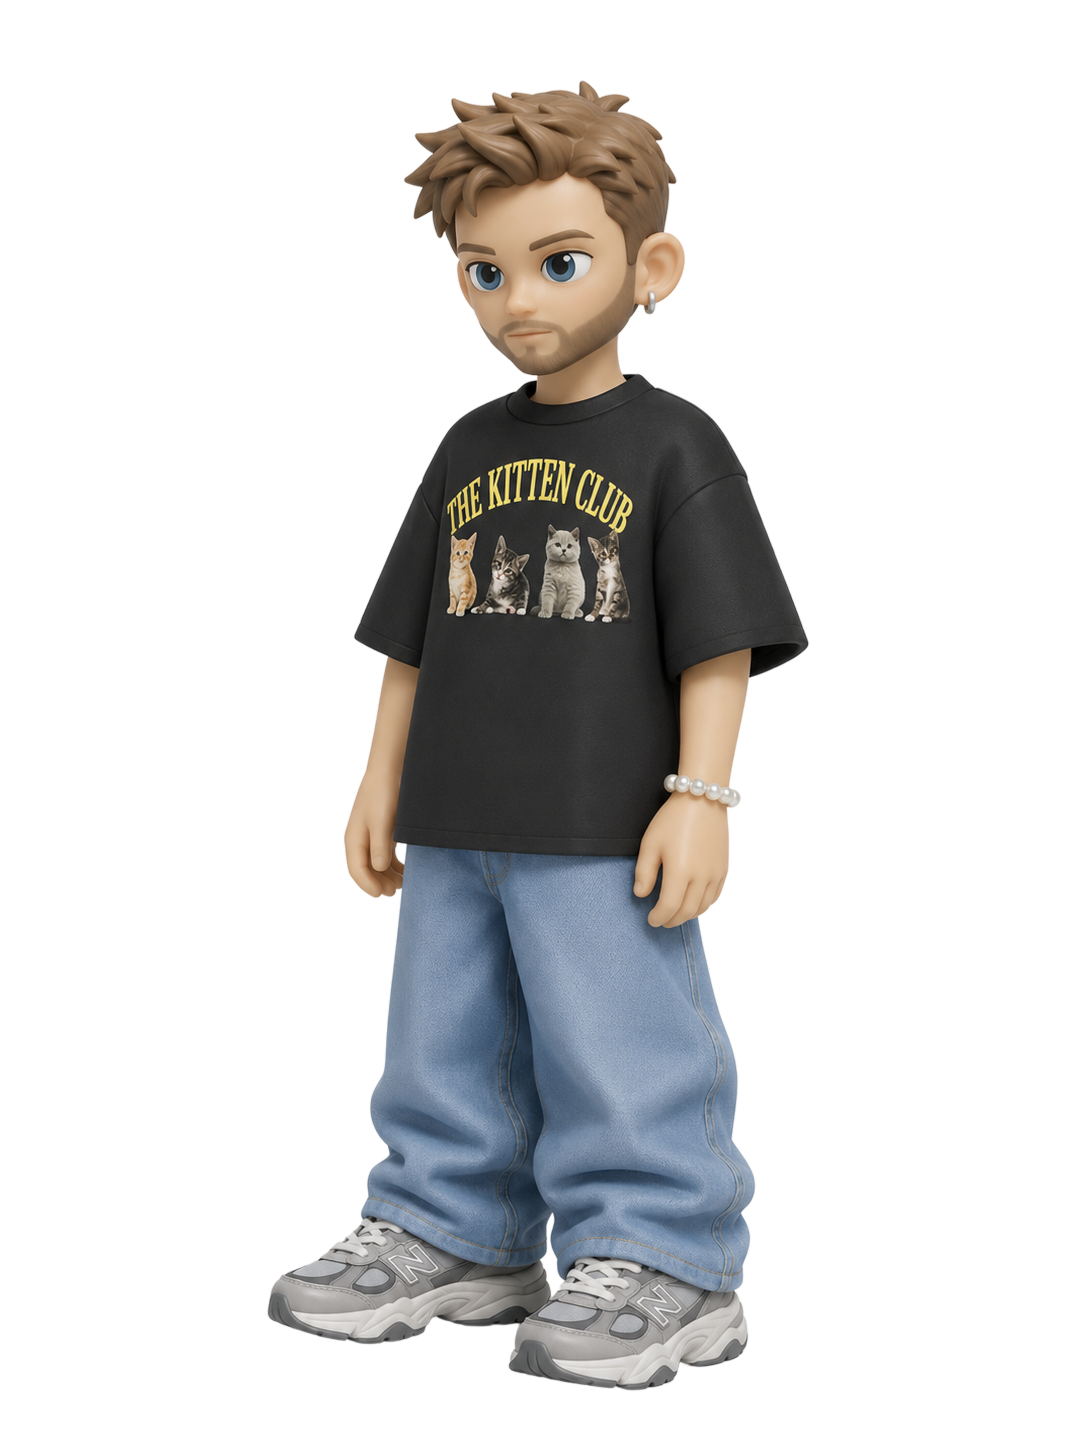
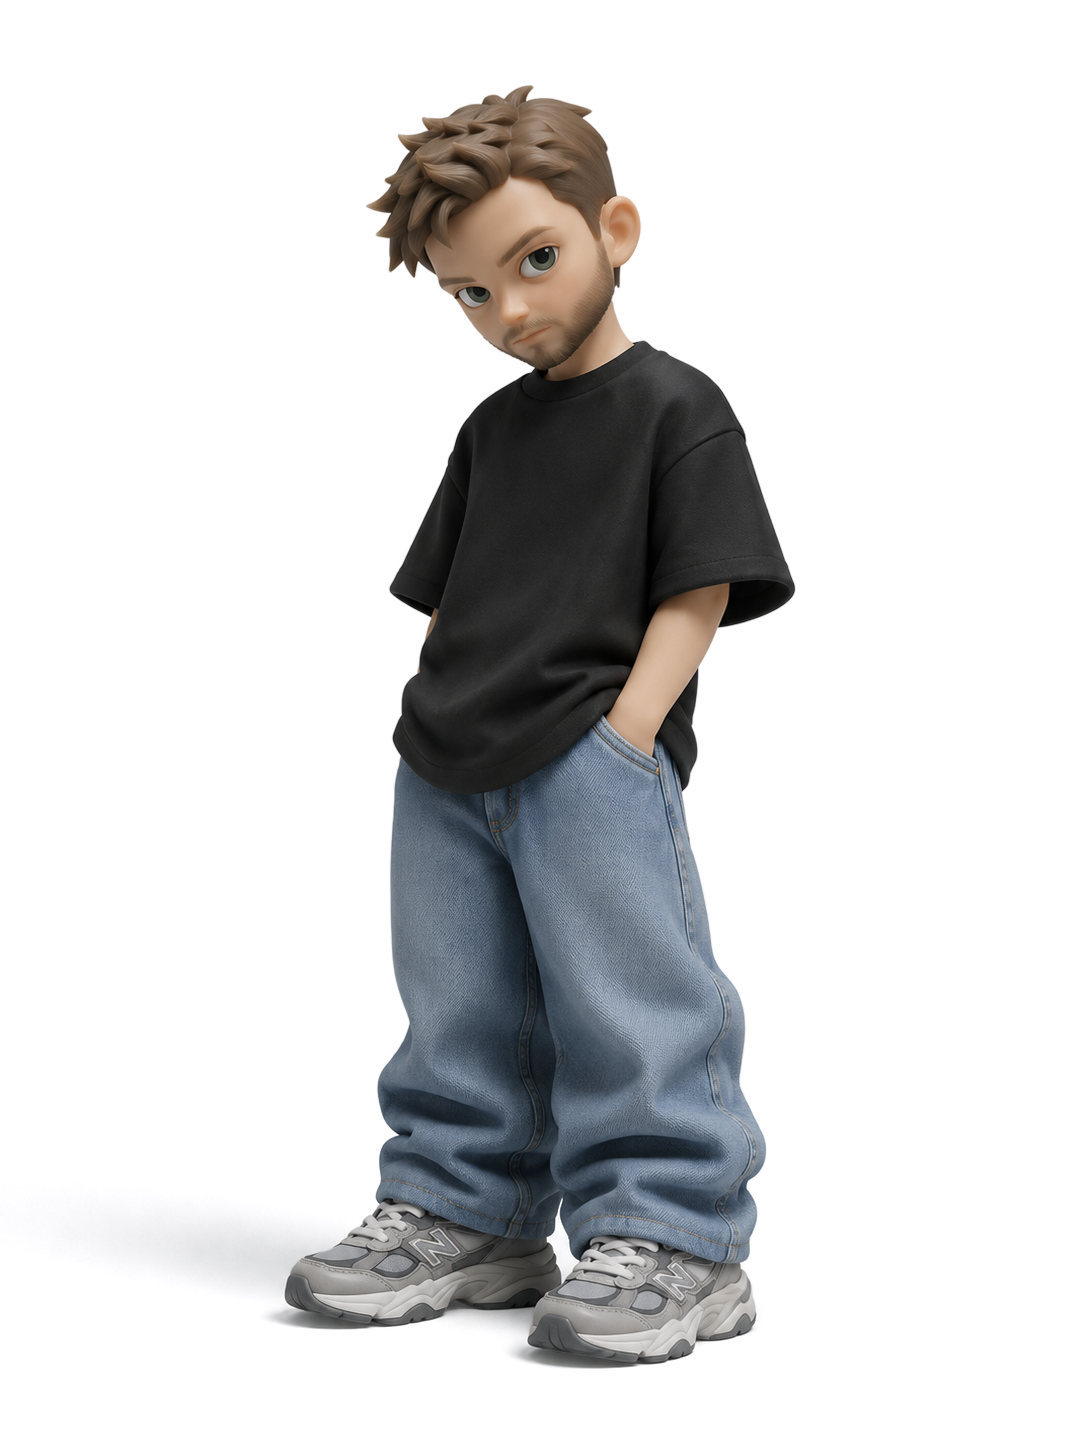
Refactor: Update pink color variable to use HSL and modify hero character asset

Changed region(s): [[0.1823, 0.0622, 0.7597, 0.9634]]

diff --git a/src/styles/tokens/palette.css b/src/styles/tokens/palette.css
@@ -1,5 +1,5 @@
 :root {
-  --palette-pink-srgb: rgb(255 51 194);
+  --palette-pink-srgb: hsl(318 100% 60%);
   --palette-pink-p3: color(display-p3 1 0.3 0.75);
   --palette-lime-srgb: hsl(83 100% 50%);
   --palette-lime-p3: color(display-p3 0.7 1 0);